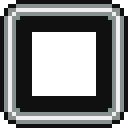
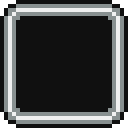
border diff fixed tentatively...

Changed region(s): [[0.25, 0.25, 0.75, 0.75]]

diff --git a/src/components/border-plane/index.tsx b/src/components/border-plane/index.tsx
@@ -7,9 +7,9 @@ type Props = {
 
 export const BorderPlane: FC<Props> = ({ children }) => {
   return (
-    <span className={styles['border-plane']}>
-      <span className={styles['border-inner']}>{children}</span>
-    </span>
+    <div className={styles['border-plane']}>
+      <div className={styles['border-inner']}>{children}</div>
+    </div>
   );
 };
 

diff --git a/src/styles/globals.css b/src/styles/globals.css
@@ -1,18 +1,7 @@
 html,
 body {
-  padding: 0;
-  margin: 0;
   font-family: -apple-system, BlinkMacSystemFont, Segoe UI, Roboto, Oxygen,
     Ubuntu, Cantarell, Fira Sans, Droid Sans, Helvetica Neue, sans-serif;
-}
-
-a {
-  color: inherit;
-  text-decoration: none;
-}
-
-* {
-  box-sizing: border-box;
 }
 
 @media (prefers-color-scheme: dark) {

diff --git a/src/components/border-plane/styles/index.module.css b/src/components/border-plane/styles/index.module.css
@@ -1,11 +1,7 @@
 .border-plane {
-  border: 16px solid;
+  border: 16px solid transparent;
   width: fit-content;
-  border-image: url('./border-plane-4x.png') 32;
-}
-
-.border-inner {
-  background-color: black;
+  border-image: url('./border-plane-4x.png') 32 fill;
 }
 
 .mother2-font {
